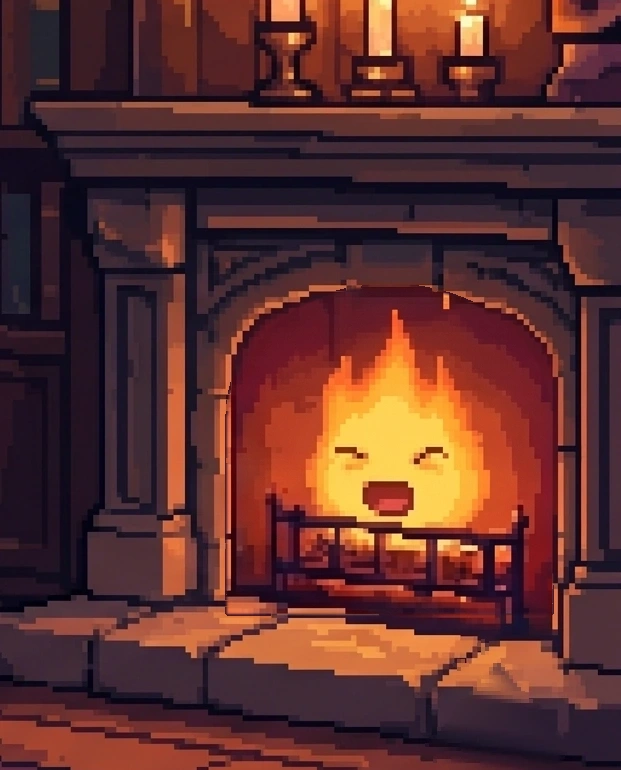
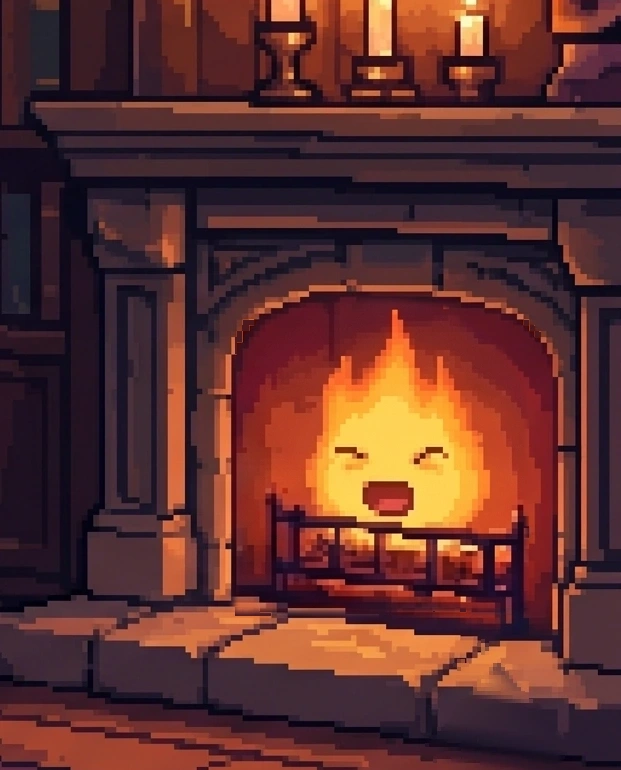
fix(calcifer): eliminate arch border seam with interior cavity mask and exact per-sheet offsets

diff --git a/js/calcifer.js b/js/calcifer.js
@@ -13,14 +13,14 @@
 const Calcifer = (() => {
   // 8 frames ngọn lửa bập bùng tự nhiên từ Flame_1_8.png
   const IDLE_FRAMES = [
-    'assets/img/calcifer/flame_idle_1.webp?v=20261018s',
-    'assets/img/calcifer/flame_idle_2.webp?v=20261018s',
-    'assets/img/calcifer/flame_idle_3.webp?v=20261018s',
-    'assets/img/calcifer/flame_idle_4.webp?v=20261018s',
-    'assets/img/calcifer/flame_idle_5.webp?v=20261018s',
-    'assets/img/calcifer/flame_idle_6.webp?v=20261018s',
-    'assets/img/calcifer/flame_idle_7.webp?v=20261018s',
-    'assets/img/calcifer/flame_idle_8.webp?v=20261018s'
+    'assets/img/calcifer/flame_idle_1.webp?v=20261018t',
+    'assets/img/calcifer/flame_idle_2.webp?v=20261018t',
+    'assets/img/calcifer/flame_idle_3.webp?v=20261018t',
+    'assets/img/calcifer/flame_idle_4.webp?v=20261018t',
+    'assets/img/calcifer/flame_idle_5.webp?v=20261018t',
+    'assets/img/calcifer/flame_idle_6.webp?v=20261018t',
+    'assets/img/calcifer/flame_idle_7.webp?v=20261018t',
+    'assets/img/calcifer/flame_idle_8.webp?v=20261018t'
   ];
 
   // 9 phân đoạn hội thoại với biểu cảm và cử chỉ tương ứng
@@ -28,92 +28,92 @@ const Calcifer = (() => {
     {
       title: 'Xin chào bạn!',
       text: 'Chào bạn,\nMình là **Carte** — người giữ lửa và canh gác cho tòa lâu đài cùng với chú chó siêu to tên **Bond**.\n\nNhờ có mình mà lâu đài mới chuyển động và đi bất kì nơi nào mà cô chủ muốn.',
-      mainFrame: 'assets/img/calcifer/calcifer_talk_3.webp?v=20261018s', // giơ tay chào mừng
+      mainFrame: 'assets/img/calcifer/calcifer_talk_3.webp?v=20261018t', // giơ tay chào mừng
       talkFrames: [
-        'assets/img/calcifer/calcifer_talk_3.webp?v=20261018s',
-        'assets/img/calcifer/calcifer_talk_6.webp?v=20261018s'
+        'assets/img/calcifer/calcifer_talk_3.webp?v=20261018t',
+        'assets/img/calcifer/calcifer_talk_6.webp?v=20261018t'
       ],
-      breatheFrame: 'assets/img/calcifer/calcifer_talk_2.webp?v=20261018s'
+      breatheFrame: 'assets/img/calcifer/calcifer_talk_2.webp?v=20261018t'
     },
     {
       title: 'Cô chủ của Carte',
       text: 'Cô chủ của mình là một người thích khám phá, tò mò và cũng mơ mộng nữa.',
-      mainFrame: 'assets/img/calcifer/calcifer_smile_1.webp?v=20261018s', // cười dịu dàng
+      mainFrame: 'assets/img/calcifer/calcifer_smile_1.webp?v=20261018t', // cười dịu dàng
       talkFrames: [
-        'assets/img/calcifer/calcifer_smile_1.webp?v=20261018s',
-        'assets/img/calcifer/calcifer_talk_4.webp?v=20261018s'
+        'assets/img/calcifer/calcifer_smile_1.webp?v=20261018t',
+        'assets/img/calcifer/calcifer_talk_4.webp?v=20261018t'
       ],
-      breatheFrame: 'assets/img/calcifer/calcifer_smile_5.webp?v=20261018s'
+      breatheFrame: 'assets/img/calcifer/calcifer_smile_5.webp?v=20261018t'
     },
     {
       title: 'Những cái tên gắn liền từng chặng đường',
       text: 'Mình có được nghe cô chủ kể trước kia cô có khá nhiều tên, mỗi cái tên gắn liền với một giai đoạn...\n\nHiện tại cô chủ mình chọn **Vivi** làm tên tiếng Việt cũng như bút danh cho việc viết, còn **Vivian** là tên tiếng Anh.',
-      mainFrame: 'assets/img/calcifer/calcifer_talk_6.webp?v=20261018s', // mở miệng kể chuyện
+      mainFrame: 'assets/img/calcifer/calcifer_talk_6.webp?v=20261018t', // mở miệng kể chuyện
       talkFrames: [
-        'assets/img/calcifer/calcifer_talk_6.webp?v=20261018s',
-        'assets/img/calcifer/calcifer_talk_7.webp?v=20261018s'
+        'assets/img/calcifer/calcifer_talk_6.webp?v=20261018t',
+        'assets/img/calcifer/calcifer_talk_7.webp?v=20261018t'
       ],
-      breatheFrame: 'assets/img/calcifer/calcifer_talk_5.webp?v=20261018s'
+      breatheFrame: 'assets/img/calcifer/calcifer_talk_5.webp?v=20261018t'
     },
     {
       title: 'Đưa cô gần hơn tới các vì sao',
       text: 'Mình hay gọi cô là **Vivi** luôn cho gọn.\n\nVivi rất thích các chòm sao nên mình đã luôn phải cháy rực rỡ để đưa cô gần hơn tới các vì sao ✨ — một góc nhỏ ấm áp nơi cô có thể quan sát, nhìn ngắm, chiêm nghiệm về những điều cô đọc được, cô đi qua hay những sáng tác của cô.',
-      mainFrame: 'assets/img/calcifer/calcifer_smile_6.webp?v=20261018s', // giơ tay nhiệt huyết
+      mainFrame: 'assets/img/calcifer/calcifer_smile_6.webp?v=20261018t', // giơ tay nhiệt huyết
       talkFrames: [
-        'assets/img/calcifer/calcifer_smile_6.webp?v=20261018s',
-        'assets/img/calcifer/calcifer_talk_3.webp?v=20261018s'
+        'assets/img/calcifer/calcifer_smile_6.webp?v=20261018t',
+        'assets/img/calcifer/calcifer_talk_3.webp?v=20261018t'
       ],
-      breatheFrame: 'assets/img/calcifer/calcifer_smile_7.webp?v=20261018s'
+      breatheFrame: 'assets/img/calcifer/calcifer_smile_7.webp?v=20261018t'
     },
     {
       title: 'Những khoảng ở giữa...',
       text: 'Vivi vừa hiền lành cũng vừa ghê gớm, vừa sâu sắc vừa vô tri, vừa chăm chỉ cũng vừa lười biếng, vừa thích đi nhưng cũng lười đi... 😊\n\nCô là sự kết hợp của nhiều khoảng ở giữa…',
-      mainFrame: 'assets/img/calcifer/calcifer_smile_2.webp?v=20261018s', // cười tít mắt `> <`
+      mainFrame: 'assets/img/calcifer/calcifer_smile_2.webp?v=20261018t', // cười tít mắt `> <`
       talkFrames: [
-        'assets/img/calcifer/calcifer_smile_2.webp?v=20261018s',
-        'assets/img/calcifer/calcifer_smile_5.webp?v=20261018s'
+        'assets/img/calcifer/calcifer_smile_2.webp?v=20261018t',
+        'assets/img/calcifer/calcifer_smile_5.webp?v=20261018t'
       ],
-      breatheFrame: 'assets/img/calcifer/calcifer_smile_4.webp?v=20261018s'
+      breatheFrame: 'assets/img/calcifer/calcifer_smile_4.webp?v=20261018t'
     },
     {
       title: 'Tình yêu dành cho nghệ thuật',
       text: 'Nhưng có lẽ điều mà cô luôn thích đó là **nghệ thuật**.\n\nCô thích khám phá về thế giới, thích ghi lại những chiêm nghiệm về cuộc đời.',
-      mainFrame: 'assets/img/calcifer/calcifer_smile_5.webp?v=20261018s', // nụ cười điềm đạm
+      mainFrame: 'assets/img/calcifer/calcifer_smile_5.webp?v=20261018t', // nụ cười điềm đạm
       talkFrames: [
-        'assets/img/calcifer/calcifer_smile_5.webp?v=20261018s',
-        'assets/img/calcifer/calcifer_talk_4.webp?v=20261018s'
+        'assets/img/calcifer/calcifer_smile_5.webp?v=20261018t',
+        'assets/img/calcifer/calcifer_talk_4.webp?v=20261018t'
       ],
-      breatheFrame: 'assets/img/calcifer/calcifer_smile_1.webp?v=20261018s'
+      breatheFrame: 'assets/img/calcifer/calcifer_smile_1.webp?v=20261018t'
     },
     {
       title: 'Phương châm viết của Vivi',
       text: 'Vivi hay nói với mình là cô:\n\n🔥 **« VIẾT ĐỂ KHÔNG QUÊN »** 🔥',
-      mainFrame: 'assets/img/calcifer/calcifer_talk_8.webp?v=20261018s', // cười lớn vui vẻ
+      mainFrame: 'assets/img/calcifer/calcifer_talk_8.webp?v=20261018t', // cười lớn vui vẻ
       talkFrames: [
-        'assets/img/calcifer/calcifer_talk_8.webp?v=20261018s',
-        'assets/img/calcifer/calcifer_smile_8.webp?v=20261018s'
+        'assets/img/calcifer/calcifer_talk_8.webp?v=20261018t',
+        'assets/img/calcifer/calcifer_smile_8.webp?v=20261018t'
       ],
-      breatheFrame: 'assets/img/calcifer/calcifer_talk_3.webp?v=20261018s'
+      breatheFrame: 'assets/img/calcifer/calcifer_talk_3.webp?v=20261018t'
     },
     {
       title: 'Những dấu chân con chữ',
       text: 'Vậy nên…\n\nNhiều khi các bài viết hay các sáng tác có thể như là một dấu chân cô đã đi và muốn lưu dấu thông qua vài con chữ lộn xộn.',
-      mainFrame: 'assets/img/calcifer/calcifer_smile_7.webp?v=20261018s', // nụ cười rạng rỡ
+      mainFrame: 'assets/img/calcifer/calcifer_smile_7.webp?v=20261018t', // nụ cười rạng rỡ
       talkFrames: [
-        'assets/img/calcifer/calcifer_smile_7.webp?v=20261018s',
-        'assets/img/calcifer/calcifer_talk_5.webp?v=20261018s'
+        'assets/img/calcifer/calcifer_smile_7.webp?v=20261018t',
+        'assets/img/calcifer/calcifer_talk_5.webp?v=20261018t'
       ],
-      breatheFrame: 'assets/img/calcifer/calcifer_smile_1.webp?v=20261018s'
+      breatheFrame: 'assets/img/calcifer/calcifer_smile_1.webp?v=20261018t'
     },
     {
       title: 'Chinh phục những chân trời mới',
       text: 'Chẳng xô bồ hay cũng chẳng cần trau chuốt để ngóng chờ một chàng hoàng tử của đời.\n\nCác con chữ chỉ đơn giản vẫn ở đó và lớn dần từng ngày để tự chinh phục những điều thú vị tiếp theo. ✨',
-      mainFrame: 'assets/img/calcifer/calcifer_smile_3.webp?v=20261018s', // giơ 2 tay hạnh phúc
+      mainFrame: 'assets/img/calcifer/calcifer_smile_3.webp?v=20261018t', // giơ 2 tay hạnh phúc
       talkFrames: [
-        'assets/img/calcifer/calcifer_smile_3.webp?v=20261018s',
-        'assets/img/calcifer/calcifer_talk_3.webp?v=20261018s'
+        'assets/img/calcifer/calcifer_smile_3.webp?v=20261018t',
+        'assets/img/calcifer/calcifer_talk_3.webp?v=20261018t'
       ],
-      breatheFrame: 'assets/img/calcifer/calcifer_smile_6.webp?v=20261018s'
+      breatheFrame: 'assets/img/calcifer/calcifer_smile_6.webp?v=20261018t'
     }
   ];
 

diff --git a/index.html b/index.html
@@ -109,7 +109,7 @@
       <!-- Carte (Calcifer) trong lò sưởi -->
       <div class="calcifer-container" id="calciferContainer" role="button" tabindex="0" title="Chạm vào Carte để trò chuyện" aria-label="Carte - Người giữ lửa của lâu đài">
         <canvas class="calcifer-embers" id="calciferEmbers"></canvas>
-        <img class="calcifer-flame" id="calciferFlame" src="assets/img/calcifer/flame_idle_1.webp?v=20261018s" alt="Carte người giữ lửa">
+        <img class="calcifer-flame" id="calciferFlame" src="assets/img/calcifer/flame_idle_1.webp?v=20261018t" alt="Carte người giữ lửa">
         <div class="calcifer-hint-pill" id="calciferHint">
           <span class="pill-fire">🔥</span>
           <span class="pill-text">Carte</span>
@@ -382,7 +382,7 @@
 <script src="js/shooting.js?v=20261018m"></script>
 <script src="js/galaxy.js?v=20261018m"></script>
 <script src="js/intro.js?v=20261018n"></script>
-<script src="js/calcifer.js?v=20261018s"></script>
+<script src="js/calcifer.js?v=20261018t"></script>
 <script src="js/main.js?v=20261018n"></script>
 <script src="js/dog.js?v=20261018m"></script>
 </body>

diff --git a/scripts/generate_perfect_24_frames.py b/scripts/generate_perfect_24_frames.py
@@ -2,96 +2,84 @@ import os
 import numpy as np
 from PIL import Image, ImageFilter
 
-# Exact cell offsets relative to cell0 (dx, dy):
-OFFSETS = [
-    (0, 0),       # Frame 1
-    (5, 0),       # Frame 2
-    (11, 0),      # Frame 3
-    (5, 0),       # Frame 4
-    (-15, 101),   # Frame 5
-    (-32, 101),   # Frame 6
-    (-32, 101),   # Frame 7
-    (-67, 109)    # Frame 8
-]
+bg = Image.open('assets/img/bg_close.webp').convert('RGBA')
+FW, FH = 621, 770
+BASE_X, BASE_Y = 2131, 649
+bg_fp = bg.crop((BASE_X, BASE_Y, BASE_X + FW, BASE_Y + FH))
 
-BASE_X = 2131
-BASE_Y = 649
-FW = 621  # 2752 - 2131 = 621
-FH = 770
+# 1. Clean the static background fire in bg_fp:
+bg_clean_arr = np.array(bg_fp)
+fire_clean_mask = (bg_clean_arr[:, :, 0] > 150) & (bg_clean_arr[:, :, 1] > 75) & (bg_clean_arr[:, :, 2] < 130)
+Y, X = np.ogrid[:FH, :FW]
+in_cavity_zone = (X >= 235) & (X <= 540) & (Y >= 320) & (Y <= 615)
+brick_color = [77, 25, 30]
+bg_clean_arr[fire_clean_mask & in_cavity_zone, :3] = brick_color
+bg_clean_fp = Image.fromarray(bg_clean_arr)
 
-def make_perfect_cavity_mask(width, height):
-    """
-    True fireplace cavity geometry:
-    - Center cx = 389.0 (centered on inner stone arch ring)
-    - Radius rx = 162.0 (inner stone arch boundary spanning x=227 to x=551)
-    - Arch apex: y = 285.0 (cy=415, ry=130 -> cy-ry = 285)
-    - Hearth level: y = 613 (just above stone hearth step at y=615)
-    """
-    mask = np.zeros((height, width), dtype=np.uint8)
-    Y, X = np.ogrid[:height, :width]
-    
-    cx = 389.0
-    cy = 415.0
-    rx = 162.0
-    ry = 130.0
-    
-    top_ellipse = ((X - cx) / rx)**2 + ((Y - cy) / ry)**2 <= 1.0
-    in_top_arch = top_ellipse & (Y <= cy) & (Y >= cy - ry)
-    in_body = (X >= (cx - rx)) & (X <= (cx + rx)) & (Y > cy) & (Y <= 613)
-    
-    mask[in_top_arch | in_body] = 255
-    return Image.fromarray(mask).filter(ImageFilter.GaussianBlur(1.2))
+# 2. Perfect Cavity Opening Mask (stays strictly inside dark cavity shadow, avoiding all stone blocks):
+cx = 380.0
+cy = 415.0
+rx = 146.0
+ry = 117.0
 
-def main():
-    bg = Image.open('assets/img/bg_close.webp').convert('RGBA')
-    bg_fp = bg.crop((BASE_X, BASE_Y, BASE_X + FW, BASE_Y + FH))
-    
-    mask_img = make_perfect_cavity_mask(FW, FH)
-    
-    # Clean the static background fire in bg_fp:
-    bg_clean_arr = np.array(bg_fp)
-    fire_in_bg = (bg_clean_arr[:, :, 0] > 160) & (bg_clean_arr[:, :, 1] > 80) & (bg_clean_arr[:, :, 2] < 120) & (np.array(mask_img) > 10)
-    brick_sample = bg_clean_arr[360, 235, :3] # clean dark brick color [77, 25, 30]
-    bg_clean_arr[fire_in_bg, :3] = brick_sample
-    bg_clean_fp = Image.fromarray(bg_clean_arr)
-    
-    f18 = Image.open('Fig/Flame_1_8.png').convert('RGBA')
-    fs1 = Image.open('Fig/Flame_smile.png').convert('RGBA')
-    fs2 = Image.open('Fig/Flame_smile2.png').convert('RGBA')
-    
-    cw, ch = 688, 768
-    out_dir = 'assets/img/calcifer'
-    os.makedirs(out_dir, exist_ok=True)
-    
-    def process_and_save(sheet, idx, filename):
-        c = idx % 4
-        r = idx // 4
-        cell = sheet.crop((c * cw, r * ch, (c + 1) * cw, (r + 1) * ch))
-        dx, dy = OFFSETS[idx]
-        
-        cell_canvas = Image.new('RGBA', (FW, FH), (0, 0, 0, 0))
-        cell_canvas.paste(cell, (dx, dy))
-        
-        comp = Image.composite(cell_canvas, bg_clean_fp, mask_img)
-        out_path = os.path.join(out_dir, filename)
-        comp.save(out_path, 'WEBP', quality=95)
+mask = np.zeros((FH, FW), dtype=np.uint8)
+top_ellipse = ((X - cx) / rx)**2 + ((Y - cy) / ry)**2 <= 1.0
+in_top_arch = top_ellipse & (Y <= cy) & (Y >= cy - ry)
+in_body = (X >= (cx - rx)) & (X <= (cx + rx)) & (Y > cy) & (Y <= 610)
 
-    # 1. 8 idle frames
-    print("Generating 8 idle frames...")
-    for i in range(8):
-        process_and_save(f18, i, f'flame_idle_{i+1}.webp')
-        
-    # 2. 8 smile frames
-    print("Generating 8 smile frames...")
-    for i in range(8):
-        process_and_save(fs1, i, f'calcifer_smile_{i+1}.webp')
+mask[in_top_arch | in_body] = 255
+mask_img = Image.fromarray(mask).filter(ImageFilter.GaussianBlur(3.0))
 
-    # 3. 8 talk frames
-    print("Generating 8 talk frames...")
-    for i in range(8):
-        process_and_save(fs2, i, f'calcifer_talk_{i+1}.webp')
+# 3. Exact per-sheet landmark offsets:
+OFFSETS_DICT = {
+    'idle': [
+        (0, 0), (5, 0), (11, 0), (5, 0),
+        (-15, 100), (-32, 100), (-33, 100), (-67, 108)
+    ],
+    'smile': [
+        (0, 0), (5, 0), (11, 1), (4, 0),
+        (-15, 102), (-32, 102), (-33, 102), (-67, 109)
+    ],
+    'talk': [
+        (0, 0), (5, 0), (11, 0), (4, 0),
+        (-15, 102), (-32, 102), (-32, 102), (-67, 110)
+    ]
+}
 
-    print("All 24 frames updated successfully!")
+cw, ch = 688, 768
+
+f18 = Image.open('Fig/Flame_1_8.png').convert('RGBA')
+fs1 = Image.open('Fig/Flame_smile.png').convert('RGBA')
+fs2 = Image.open('Fig/Flame_smile2.png').convert('RGBA')
+
+out_dir = 'assets/img/calcifer'
+os.makedirs(out_dir, exist_ok=True)
+
+def render_frame(sheet, idx, sname, filename):
+    c = idx % 4
+    r = idx // 4
+    cell = sheet.crop((c * cw, r * ch, (c + 1) * cw, (r + 1) * ch))
+    dx, dy = OFFSETS_DICT[sname][idx]
+    
+    canv = Image.new('RGBA', (FW, FH), (0, 0, 0, 0))
+    canv.paste(cell, (dx, dy))
+    
+    comp = Image.composite(canv, bg_clean_fp, mask_img)
+    comp.save(os.path.join(out_dir, filename), 'WEBP', quality=95)
+
+print("Generating 8 idle frames...")
+for i in range(8):
+    render_frame(f18, i, 'idle', f'flame_idle_{i+1}.webp')
+
+print("Generating 8 smile frames...")
+for i in range(8):
+    render_frame(fs1, i, 'smile', f'calcifer_smile_{i+1}.webp')
+
+print("Generating 8 talk frames...")
+for i in range(8):
+    render_frame(fs2, i, 'talk', f'calcifer_talk_{i+1}.webp')
+
+print("All 24 frames successfully updated with zero-seam mask!")
 
 if __name__ == '__main__':
-    main()
+    pass
